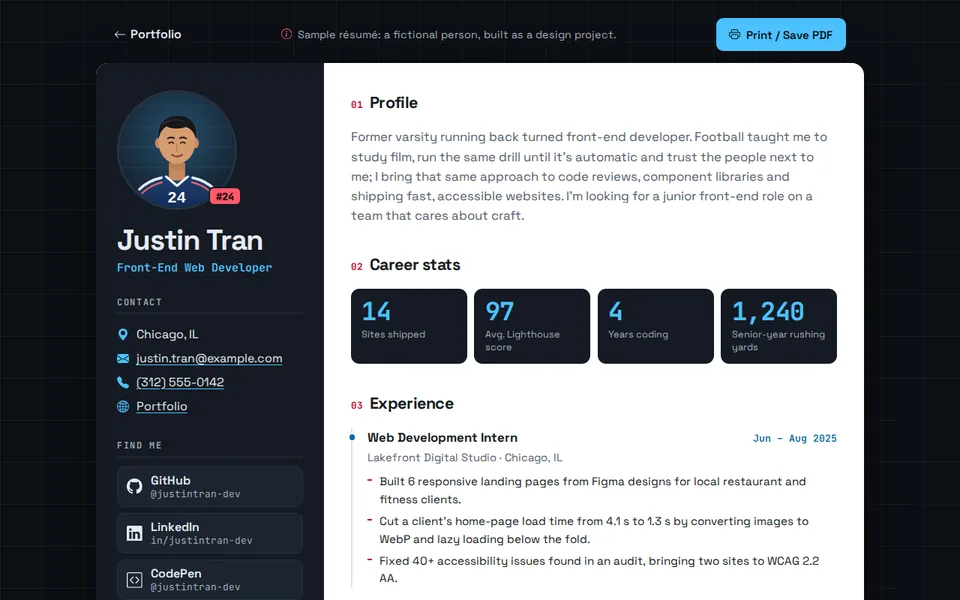
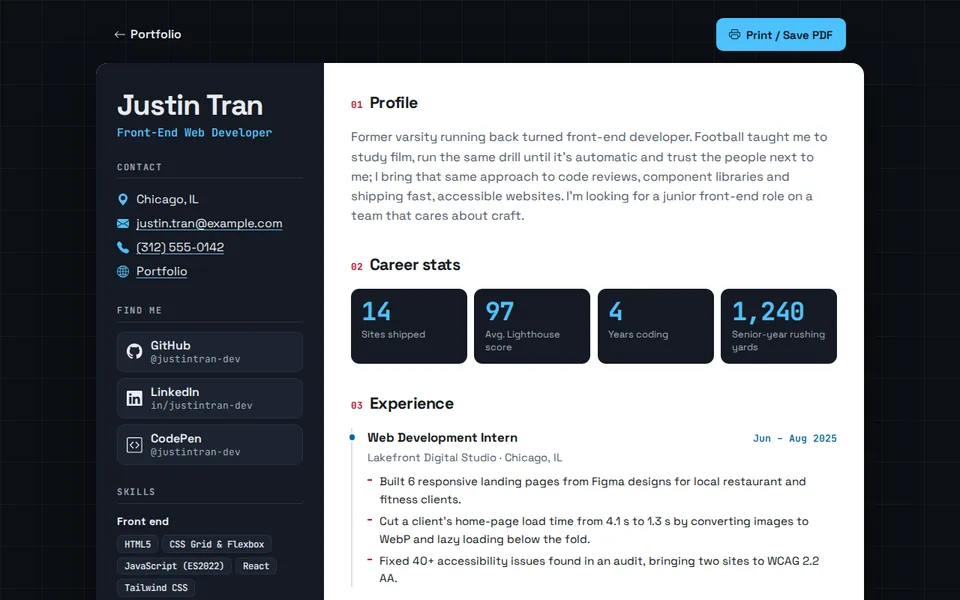
Use Justin's photo in the hero; drop the résumé portrait and notice
- Hero: the supplied photo of Justin with its office background removed
  (rembg, u2net_human_seg, cleaned edges) and a new backdrop in the site's
  colors: blue light behind the head, a faint city grid, a soft-focus
  skyline and city-light bokeh. Saved as an 800x800 WebP (38 KB).
- Link-preview image now uses the photo; the J monogram is removed.
- Online résumé: remove the illustrated portrait and the visible
  "sample résumé" notice, and neutralize the title and description.
  noindex stays.
- Refresh the résumé card screenshot, README screenshots and notes.

Claude-Session: https://claude.ai/code/session_01WczYLbDvrap2tUhs166EUz

diff --git a/resume/index.html b/resume/index.html
@@ -4,8 +4,8 @@
 <head>
   <meta charset="UTF-8">
   <meta name="viewport" content="width=device-width, initial-scale=1">
-  <title>Justin Tran | Front-End Web Developer | Résumé (sample)</title>
-  <meta name="description" content="Sample online résumé for a fictional front-end web developer: former varsity running back, computer science graduate.">
+  <title>Justin Tran | Front-End Web Developer | Résumé</title>
+  <meta name="description" content="Résumé of Justin Tran, a front-end web developer in Chicago: former varsity running back, computer science graduate.">
   <meta name="theme-color" content="#0c0f14">
   <!-- This is a design sample for a fictional person. Search engines shouldn't list it as a real résumé. -->
   <meta name="robots" content="noindex">
@@ -39,10 +39,6 @@
     <a class="toolbar-back" href="../#projects">
       <svg class="i" aria-hidden="true"><use href="#i-arrow-left"/></svg>Portfolio
     </a>
-    <p class="sample-note">
-      <svg class="i" aria-hidden="true"><use href="#i-info-circle"/></svg>
-      Sample résumé: a fictional person, built as a design project.
-    </p>
     <button class="btn btn-primary js-print" type="button">
       <svg class="i" aria-hidden="true"><use href="#i-printer"/></svg>Print / Save PDF
     </button>
@@ -51,10 +47,6 @@
   <main id="resume" class="sheet">
     <!-- SIDEBAR -->
     <aside class="sidebar">
-      <div class="portrait">
-        <img src="portrait.svg" width="400" height="400" alt="Illustrated portrait of Justin Tran in a navy number 24 jersey">
-        <span class="jersey-tag" aria-hidden="true">#24</span>
-      </div>
 
       <h1 class="name">Justin Tran</h1>
       <p class="role">Front-End Web Developer</p>
@@ -229,7 +221,7 @@
   </main>
 
   <footer class="page-foot">
-    <p>Sample résumé for a fictional person, built as a design project. <a href="../">Back to the portfolio</a></p>
+    <p><a href="../">Back to the portfolio</a></p>
   </footer>
 
   <script src="resume.js"></script>

diff --git a/resume/resume.css b/resume/resume.css
@@ -140,20 +140,6 @@ ul, ol {
   color: var(--accent-light);
 }
 
-.sample-note {
-  order: 3;
-  display: flex;
-  align-items: flex-start;
-  gap: 0.45rem;
-  width: 100%;
-  font-size: 0.9rem;
-}
-
-.sample-note .i {
-  margin-top: 0.2rem;
-  color: var(--red-light);
-}
-
 .btn {
   display: inline-flex;
   align-items: center;
@@ -189,30 +175,6 @@ ul, ol {
   padding: 1.75rem 1.25rem 2rem;
   background: var(--side);
   color: var(--side-text);
-}
-
-.portrait {
-  position: relative;
-  width: 8.5rem;
-  margin-bottom: 1.25rem;
-}
-
-.portrait img {
-  border: 3px solid var(--side-border);
-  border-radius: 50%;
-}
-
-/* A red jersey-number tag */
-.jersey-tag {
-  position: absolute;
-  right: -0.35rem;
-  bottom: 0.35rem;
-  padding: 0.1rem 0.5rem;
-  border: 2px solid var(--side);
-  border-radius: 0.45rem;
-  background: var(--red-light);
-  color: #1a0206;
-  font: 800 0.85rem var(--font-mono);
 }
 
 .name {
@@ -548,17 +510,6 @@ ul, ol {
     padding: 1.5rem 1.5rem 1rem;
   }
 
-  .sample-note {
-    order: 0;
-    width: auto;
-    flex: 1;
-    justify-content: center;
-  }
-
-  .btn {
-    margin-left: 0;
-  }
-
   .sheet {
     display: grid;
     grid-template-columns: 19rem 1fr;
@@ -569,10 +520,6 @@ ul, ol {
 
   .sidebar {
     padding: 2.25rem 1.75rem;
-  }
-
-  .portrait {
-    width: 10rem;
   }
 
   .content {
@@ -636,15 +583,6 @@ ul, ol {
 
   .sidebar {
     padding: 0.2in 0.18in;
-  }
-
-  .portrait {
-    width: 1.2in;
-    margin-bottom: 0.12in;
-  }
-
-  .jersey-tag {
-    color: #fff;
   }
 
   .side-block {

diff --git a/index.html b/index.html
@@ -117,7 +117,7 @@
         </div>
 
         <figure class="hero-photo">
-          <img src="assets/img/avatar.svg" width="720" height="720" alt="Justin's monogram: the letter J over the Chicago skyline at night">
+          <img src="assets/img/justin.webp" width="800" height="800" alt="Justin, smiling, in a gray three-piece suit in front of a city skyline at night">
         </figure>
       </div>
     </section>

diff --git a/README.md b/README.md
@@ -36,7 +36,7 @@ index.html              The whole site, including the icon sprite
 assets/css/styles.css   Theme colors, layout, animations
 assets/js/main.js       Theme toggle, phone menu, typing, nav highlight, reveal, back-to-top, contact form
 assets/fonts/           Space Grotesk and JetBrains Mono (licenses inside)
-assets/img/             Avatar (SVG), link-preview image and project screenshots
+assets/img/             Hero photo, link-preview image and project screenshots
 assets/icons/           Favicon and Apple touch icon
 resume/                 The sample online résumé: page, styles, print button, portrait and QR code
 screenshots/            Images used in this README
@@ -56,7 +56,7 @@ No build step and nothing to install.
 | To change… | Edit |
 |---|---|
 | Intro, About text, projects, skills | `index.html` |
-| Avatar (the "J" monogram) | `assets/img/avatar.svg`. To use a photo instead, add it to `assets/img/` and change the hero `<img>` in `index.html`. |
+| Hero photo | `assets/img/justin.webp` (square, 800 × 800). To change it, add a new image to `assets/img/` and update the hero `<img>` in `index.html`. |
 | Link preview (shown when the site is shared) | `assets/img/og-image.png`, 1200 × 630 |
 | Résumé content | `resume/index.html`. The social links point to each platform's home page because the person is fictional; replace them with real profile URLs. |
 | Résumé QR code | Regenerate `resume/qr.svg` if the résumé moves: `pip install segno`, then `python3 -c "import segno; segno.make_qr('NEW-URL', error='q').save('resume/qr.svg', scale=8, border=2, dark='#161a20')"` |
